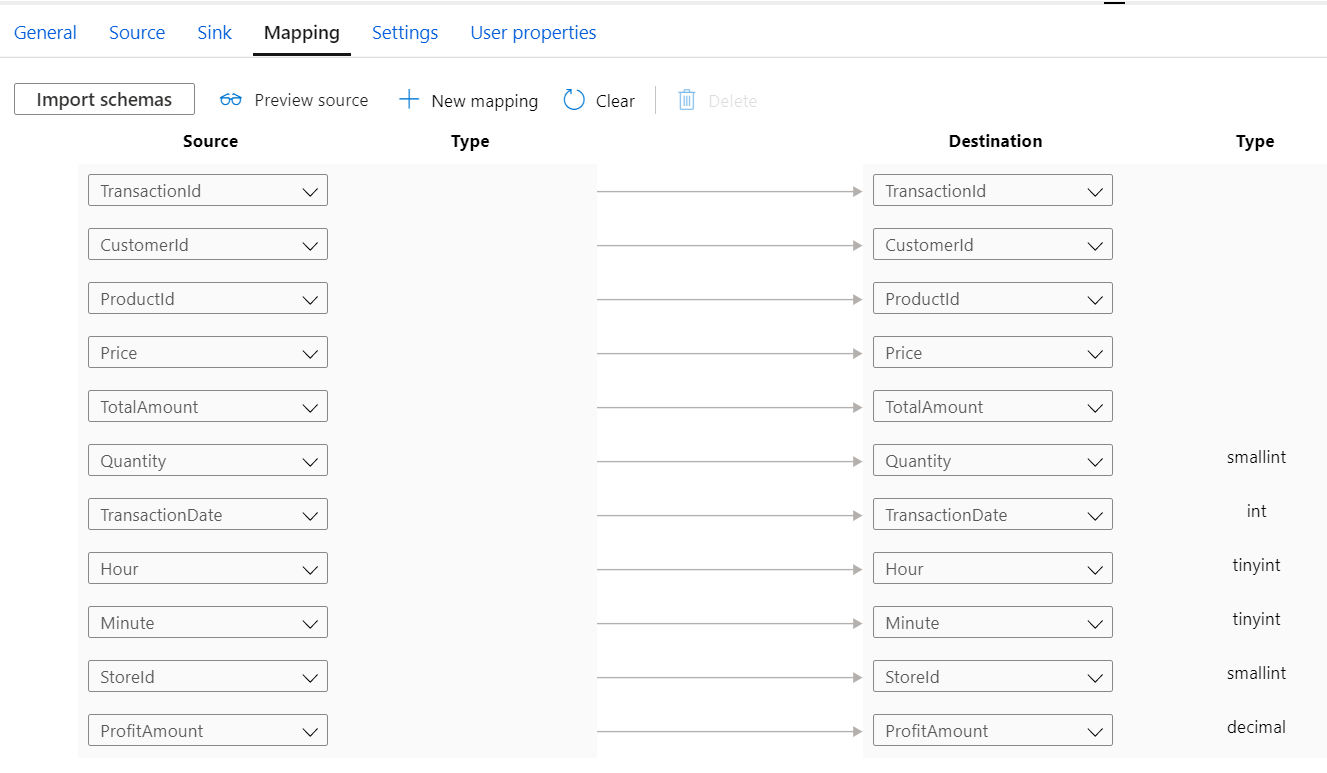
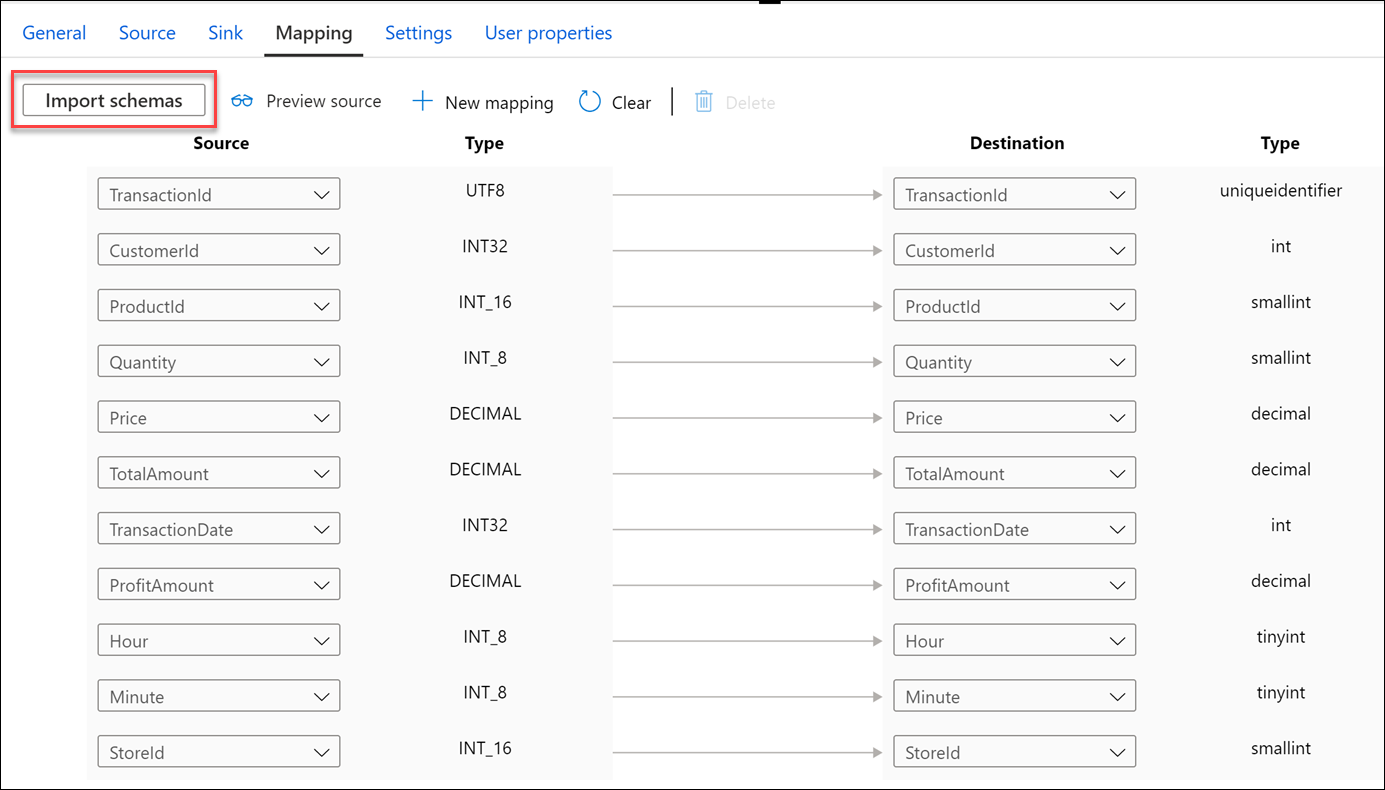
Complete Exercise 4

diff --git a/day-01/lab01-data-integration-part-1.md b/day-01/lab01-data-integration-part-1.md
@@ -865,7 +865,9 @@ To run loads with appropriate compute resources, create loading users designated
 
     ![The new pipeline context menu item is selected.](media/new-pipeline.png "New pipeline")
 
-3. In the **General** tab for the new pipeline, enter the following **Name**: `ASAL400 - Copy December Sales`.
+3. In the **Properties** pane for the new pipeline, enter the following **Name**: `ASAL400 - Copy December Sales`.
+
+    ![The Name property is highlighted.](media/pipeline-copy-sales-name.png "Properties")
 
 4. Expand **Move & transform** within the Activities list, then drag the **Copy data** activity onto the pipeline canvas.
 
@@ -895,7 +897,7 @@ To run loads with appropriate compute resources, create loading users designated
 
     ![The described settings are displayed.](media/pipeline-copy-sales-sink-settings.png "Sink")
 
-14. Select the **Mapping** tab and use **+ New mapping** to create mappings for each source and destination field.
+14. Select the **Mapping** tab and select **Import schemas** to create mappings for each source and destination field.
 
     ![The mapping is displayed.](media/pipeline-copy-sales-sink-mapping.png "Mapping")
 
@@ -915,6 +917,6 @@ To run loads with appropriate compute resources, create loading users designated
 
     ![The Monitor hub menu item is selected.](media/monitor-hub.png "Monitor hub")
 
-19. Select **Pipeline Runs**. You can see the status of your pipeline run here. It will take some time to complete, so might want to return to check this status before you start the next lab. Note that you may need to refresh the view. Once the pipeline run is complete, you can query the `wwi_staging.SaleHeap` table to view the imported data.
+19. Select **Pipeline Runs**. You can see the status of your pipeline run here. Note that you may need to refresh the view. Once the pipeline run is complete, you can query the `wwi_staging.SaleHeap` table to view the imported data.
 
     ![The completed pipeline run is displayed.](media/pipeline-copy-sales-pipeline-run.png "Pipeline runs")
